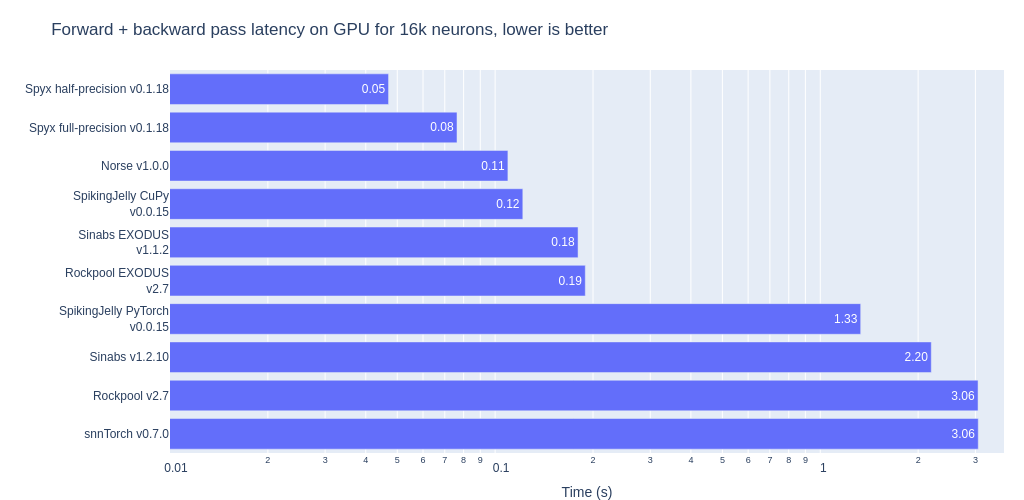
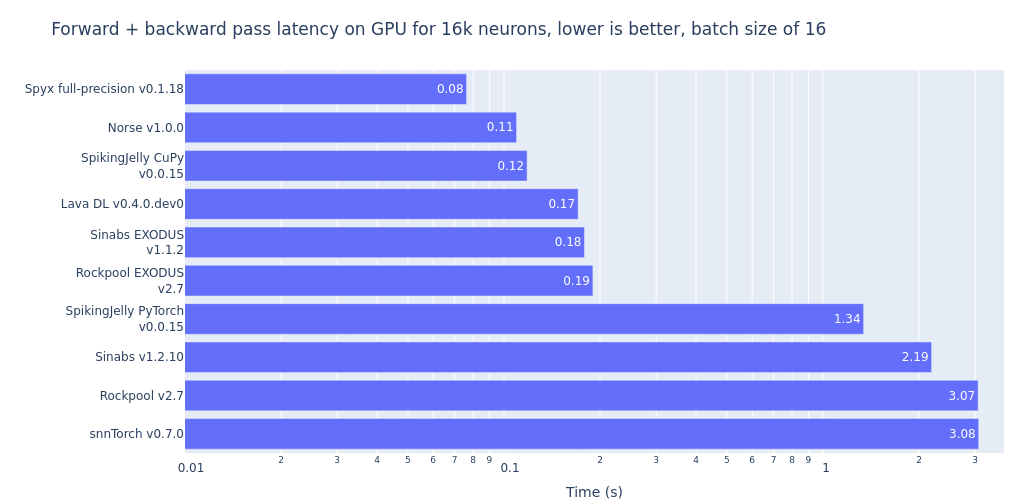
Updated docker build, run script and added lava benchmark

diff --git a/content/english/blog/spiking-neural-network-framework-benchmarking/README.md b/content/english/blog/spiking-neural-network-framework-benchmarking/README.md
@@ -2,7 +2,16 @@
 
 In data-generation.ipynb we benchmark forward and backward calls of different libraries. 
 
-# Installation
+# Installation (using Docker)
+
+1. Ensure you have Docker installed with NVIDIA runtime support
+2. Build the docker container by running `./build.sh`
+3. Run `./bench.sh` to do the benchmark
+    * Plots should automatically be generated in the present directory
+
+If something goes wrong, follow the steps in the docker container and the `docker/run_benchmarks.sh` manually
+
+# Installation (DEPRECATED)
 Start with creating a new Conda environment. Use Python 3.10 in order to use torch.compile (3.11 not supported in Aug 2023)
 ```
 conda create -n frameworks python=3.10 pip
